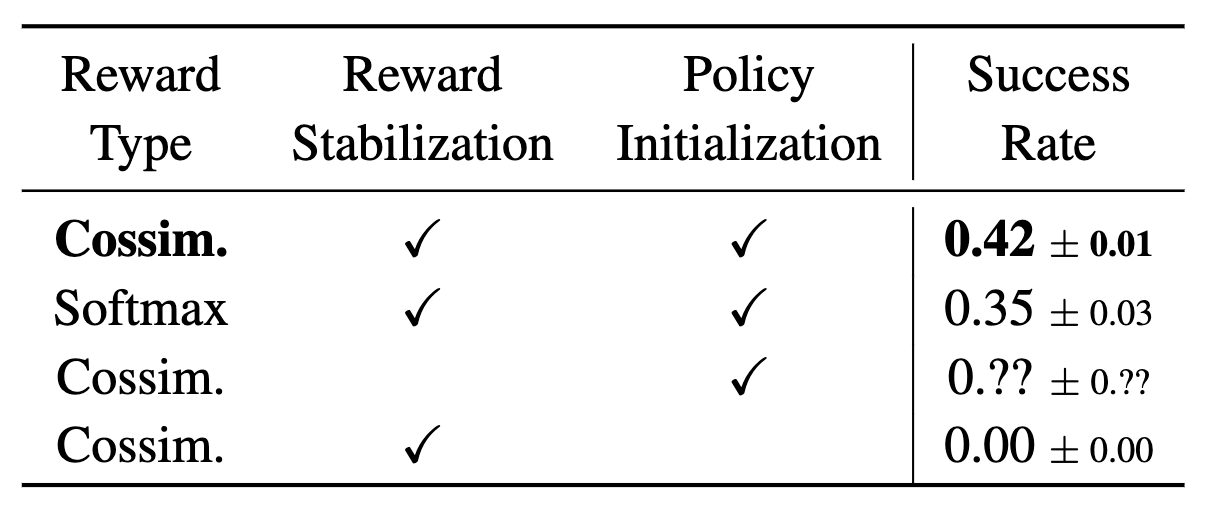
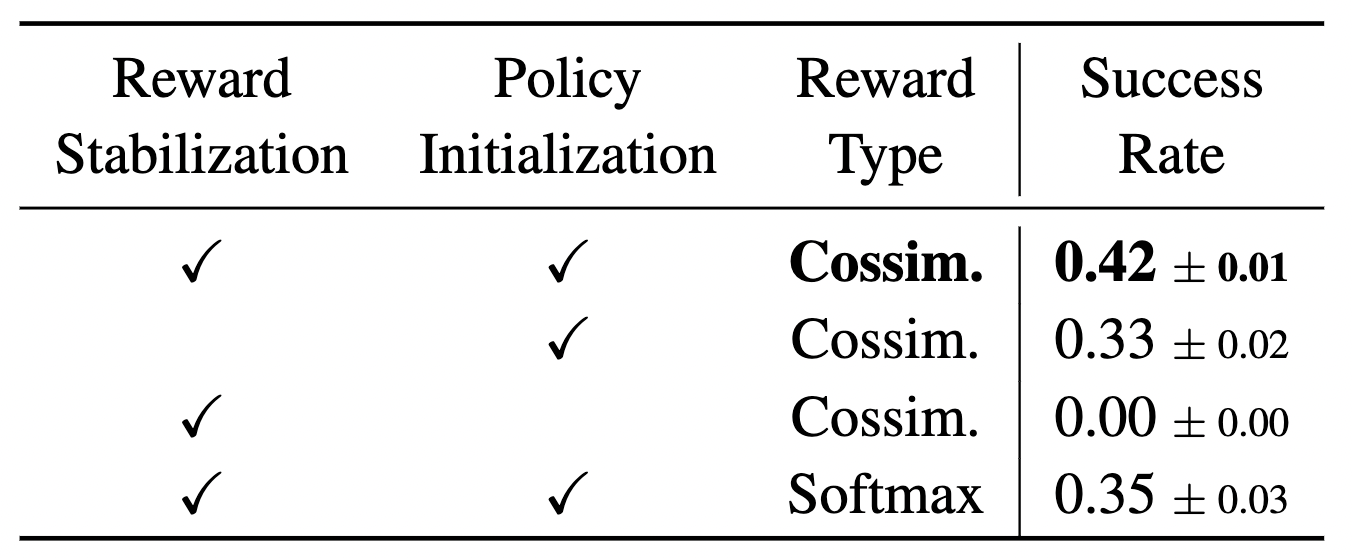
update

diff --git a/docs/index.html b/docs/index.html
@@ -48,24 +48,30 @@
             <h1 class="title is-1 publication-title">LiFT: Unsupervised Reinforcement Learning with Foundation Models as Teachers</h1>
             <div class="is-size-6 publication-authors">
               <span class="author-block">
-                <a href="Taewooknam.notion.site/Taewook-Nam-ae8a9ccb9ca54622b03b3e53541d6241">Taewook Nam</a><sup>1*</sup>,</span>
+                <a href="Taewooknam.notion.site/Taewook-Nam-ae8a9ccb9ca54622b03b3e53541d6241">Taewook Nam</a><sup>1*</sup>
+              </span>
               <span class="author-block">
-                <a href="https://gimme1dollar.github.io/">Juyong Lee</a><sup>1*</sup>,</span>
+                <a href="https://gimme1dollar.github.io/">Juyong Lee</a><sup>1*</sup>
+              </span>
               <span class="author-block">
-                <a href="https://jesbu1.github.io/">Jesse Zhang</a><sup>2</sup>,</span>
+                <a href="https://jesbu1.github.io/">Jesse Zhang</a><sup>2</sup>
+              </span>
                 <span class="author-block">
-                  <a href="http://www.sungjuhwang.com/">Sung Ju Hwang</a><sup>1</sup>
+                  <a href="http://www.sungjuhwang.com/">Sung Ju Hwang</a><sup>1</sup> 
+                </span>
                 <span class="author-block">
                   <a href="https://clvrai.com/web_lim/">Joseph J. Lim</a><sup>1</sup>
+                </span>
                 <span class="author-block">
-                  <a href="https://kpertsch.github.io/">Karl Pertsch</a><sup>3</sup>,</span>
+                  <a href="https://kpertsch.github.io/">Karl Pertsch</a><sup>3,4</sup>
                 </span>
             </div>
 
             <div class="is-size-6 publication-authors">
               <span class="author-block"><sup>1</sup>KAIST </span>
               <span class="author-block"><sup>2</sup>University of Southern California </span>
-              <span class="author-block"><sup>3</sup>Stanford </span>
+              <span class="author-block"><sup>3</sup>University of California, Berkeley </span>
+              <span class="author-block"><sup>4</sup>Stanford </span>
             </div>
 
             <div class="is-size-6 publication-authors">
@@ -122,7 +128,7 @@
         <div class="column is-four-fifths">
           <div class="content has-text-justified">
           <p>
-            We propose <b>LiFT</b> (unsupervised <b>L</b>earning w<b>i</b>th <b>F</b>oundation model <b>T</b>eachers) framework that leverages foundation models as teachers, guiding a reinforcement learning agent to acquire semantically meaningful behavior without human intervention. 
+            We propose <b>LiFT</b> (unsupervised <b>L</b>earning w<b>i</b>th <b>F</b>oundation model <b>T</b>eachers) framework that leverages foundation models as teachers, guiding a reinforcement learning agent to acquire semantically meaningful behavior without human feedback. 
           </p>
           </div>
         </div>
@@ -165,7 +171,7 @@
             <h4 class="title is-5">1. LLM Task Instruction Proposal </h4>
             <p>
               LLM is used to generate a grounded set of useful <i>imagined</i> task instructions.
-              For example, if the agent is in front of a cow with a bucket in its hand, LLM proposes "to milk a cow".
+              For example, if the agent is in front of a cow with a bucket in its hand, LLM can propose a task of "milk a cow".
             </p>
             <br>
             <h4 class="title is-5">2. VLM-Guided Policy Learning </h4>
@@ -261,21 +267,31 @@
           <div class="content has-text-justified">
             <h4 class="title is-5">Behavior Analysis</h4>
           </div>
-          <div class="columns is-centered">
-            <img src="./static/images/behavior_analysis.png"  width="800" class="interpolation-image" style="width:360"
-              alt="Interpolate start reference image.">
-            </img>
+          
+          <div class="content has-text-centered">
+            <div class="columns is-centered">
+              <!--img src="./static/images/behavior_analysis.png"  width="800" class="interpolation-image" style="width:360" alt="Interpolate start reference image."> </img-->
+                <div>
+                  <img src="./static/images/analysis_trajectory.png" width="370">
+                  </img>
+                  <br />
+                  <p> (a) Trajectories in top view </p>
+                </div>
+                <div>
+                  <img src="./static/images/analysis_diversity.png" width="470">
+                  </img>
+                  <br />
+                  <p> (b) Normalized reward scores </p>
+                </div>
+            </div>
           </div>
           <br />
             <p>
-              <!--
-              The trajectories from LiFT agent exhibit efficient approaching behaviors toward the target, 
-              compared to the undirected random trajectories from APT agents.
-              -->
-              LiFT agents exhibit efficient trajectories toward the target entity.
+              LiFT agents efficiently interact with the target entity, 
+              spawned in the green box region in the figure.
               APT agents, however, do not show semantic meaning but 
-              just wander around a wide range of regions or gaze on diverse entities,
-              despite trying maximizing the objective of diversity.
+              just wander around a wide range of regions
+              to maxime the objective of diversity.
             </p>
           <br />
 
@@ -292,73 +308,61 @@
           <h2 class="title is-3">For Scalable Learning</h2>
             <p>
               We analyze the limitations of current FMs used in our experiment for scalable learning.
-              We, then, examine the effects of each strategy used in our experiment.
+              To highlight our design choices for tackling the challenge, we present an ablation experiment result.
             </p>
           <br>
 
-          <div class="content has-text-justified">
-            <h4 class="title is-5">VLM Reward Quality</h4>
-            
-            <br>
             <div class="content has-text-centered">
               <!--  2 gif images place in one row -->
               <div class="columns is-centered">
-                  <img src="./static/images/vlm_quality.png" width="750" class="interpolation-image"
-                    alt="Interpolate start reference image.">
-                  </img>
-                  <br/>
-              </div>
-            </div>
-
-            <p>
-              VLM rewards are generally high for behavior that is somewhat related to the task instructions 
-              but often fall short of providing the highest rewards for the most success-critical behavior.
-            </p>
-
-            <br>
-
-            <h4 class="title is-5">Ablation Study on Strategies</h4>
-            <p>
-              To highlight our design choices for tackling the challenge, 
-              we present an ablation experiment result.
-            </p>
-            <br>
-
-            <div class="content has-text-centered">
-              <!--  2 gif images place in one row -->
-              <div class="columns is-centered">
+                <div>
                   <img src="./static/images/ablation_study.png" width="400" class="interpolation-image"
                     alt="Interpolate start reference image.">
                   </img>
+                  <br />
+                </div>
               </div>
             </div>
 
-            <ol>
-              <li><b>Reward Type</b>
-                <br>
-                We experiment on two types of reward definitions: cosine similarity and softmax.
-                We conclude that the naive application of softmax reward does not efficiently improve the performance.
-               </br>
-              <br>
-              </li>
-              <li><b>Reward Stabilization</b>
-                <br>
-                We stabilize the VLM reward signal with smoothing.
-                We empirically observe that the computed reward signal typically exhibits high variance, 
-                likely coming from noise induced by visual variations within the observed agent trajectories.
-                </br>
-              </li>
-              <br>
-              <li><b>Policy Initialization</b>
-                <br>
-                We initialize our policy with VPT.
-                A randomly initialized policy is not able to learn meaningful behavior 
-                due to the high complexity of MineDojo environment and the imperfect reward quality from VLM.
-                </br>
-              </li>
-              <br>
-            </ol>
+          <div class="content has-text-justified">
 
+            <h4 class="title is-5">Reward Stabilization</h4>
+            <p>
+              The comparison between the first and second rows in the table shows the effect of reward stabiliziation.
+              The below graphs show the difference between the raw VLM reward signals and the processsed version.
+            </p>
+
+          <div class="content has-text-centered">
+            <div class="columns is-centered">
+              <!--img src="./static/images/behavior_analysis.png"  width="800" class="interpolation-image" style="width:360" alt="Interpolate start reference image."> </img-->
+                <div>
+                  <img src="./static/images/vlm_quality_a.png" width="375">
+                  </img>
+                  <br />
+                  <p> (a) Shear a sheep and obtain wools </p>
+                </div>
+                <div>
+                  <img src="./static/images/vlm_quality_b.png" width="375">
+                  </img>
+                  <br />
+                  <p> (b) Craft planks </p>
+                </div>
+            </div>
+          </div>
+
+            <h4 class="title is-5">Policy Initialization</h4>
+            <p>
+              The comparison between the first and third rows in the table shows the effect of policy initialization.
+              A randomly initialized policy can not learn properly, mainly due to the high complexity of MineDojo environment and the imperfect VLM rewards.
+            </p>
+            <br>
+              
+            <h4 class="title is-5">Reward Type</h4>
+            <p>
+              We additionally experiment on two types of reward definitions: cosine similarity and softmax.
+              We conclude that the naive application of softmax reward does not efficiently improve the performance.
+            </p>
+            <br>
 
           </div>
         </div>
